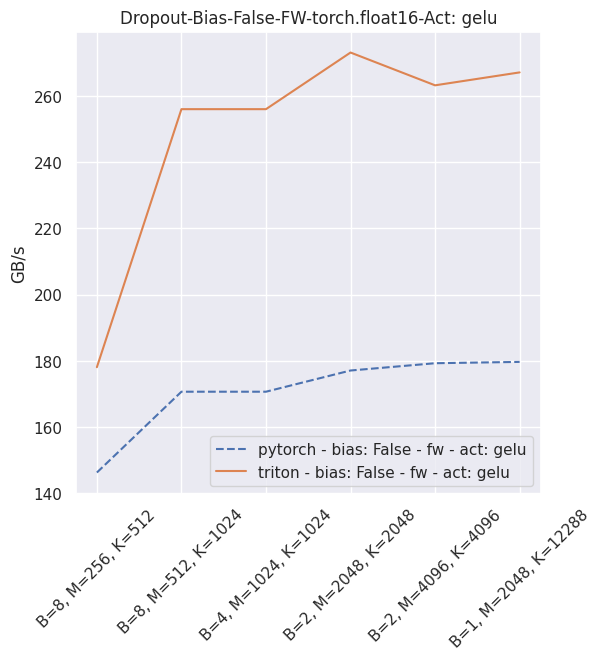
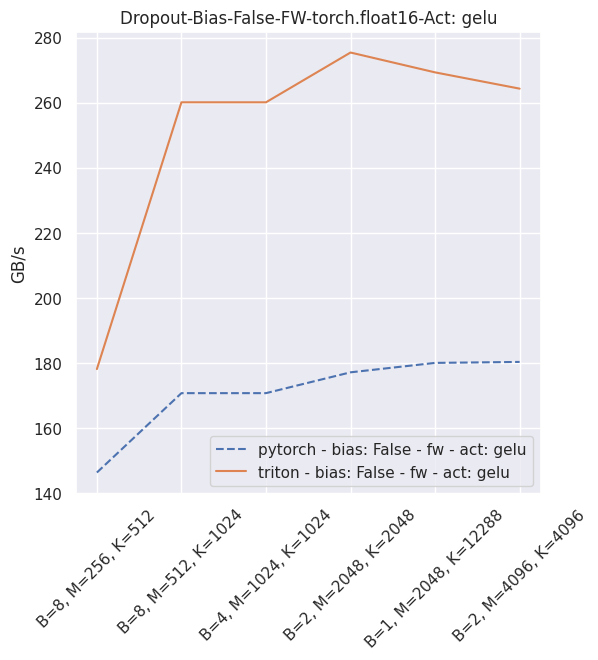
trying to find better scheduling defaults

diff --git a/xformers/triton/k_sum.py b/xformers/triton/k_sum.py
@@ -15,8 +15,9 @@ import triton.language as tl
         triton.Config({"BLOCK_M": 128, "BLOCK_N": 16}, num_stages=5, num_warps=2),
         triton.Config({"BLOCK_M": 256, "BLOCK_N": 16}, num_stages=5, num_warps=2),
         triton.Config({"BLOCK_M": 512, "BLOCK_N": 16}, num_stages=5, num_warps=2),
-        triton.Config({"BLOCK_M": 1024, "BLOCK_N": 16}, num_stages=5, num_warps=4),
-        triton.Config({"BLOCK_M": 2048, "BLOCK_N": 16}, num_stages=5, num_warps=4),
+        triton.Config({"BLOCK_M": 1024, "BLOCK_N": 8}, num_stages=5, num_warps=2),
+        triton.Config({"BLOCK_M": 2048, "BLOCK_N": 8}, num_stages=5, num_warps=2),
+        triton.Config({"BLOCK_M": 4096, "BLOCK_N": 8}, num_stages=4, num_warps=2),
     ],
     key=["M", "N", "is_fp16"],
 )
@@ -25,7 +26,7 @@ def k_sum_0(
     Y, X,
     stride_xm,
     M, N,
-    is_fp16,  # useful for autotune
+    is_fp16,
     **meta,
 ):
     # fmt: om

diff --git a/xformers/triton/sum_strided.py b/xformers/triton/sum_strided.py
@@ -41,7 +41,7 @@ def sum_2d_dim_0(x: torch.Tensor):
         out, x,
         x.stride(0),
         M, N,
-        x.dtype == torch.float16
+        x.dtype == torch.float16,
     )
     # fmt: on
 
